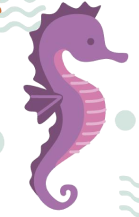
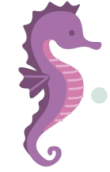
feat: componente de projetos, redes sociais e footer criados

diff --git a/src/components/SocialMedia/index.js b/src/components/SocialMedia/index.js
@@ -1,0 +1,38 @@
+import React from 'react';
+import { Container, List, ContainerList } from './styles';
+import imgWaves from '../../assets/waves.png';
+import imgOyster from '../../assets/oyster.png';
+import imgMedium from '../../assets/medium.png';
+import imgLinkedin from '../../assets/linkedin.png';
+import imgGitHub from '../../assets/github.png';
+import { SubTitle, Title } from '../About/styles';
+
+function SocialMedia() {
+    return (
+        <Container>
+            <Title>
+                <img className="oyster" src={imgOyster} alt="ostra" />
+                <SubTitle>
+                    <h2>Redes sociais</h2>
+                    <img src={imgWaves} alt="ondas" />
+                </SubTitle>
+            </Title>
+            <ContainerList>
+                <List>
+                    <img src={imgLinkedin} alt="linkedin" />
+                    <a href="https://www.linkedin.com/in/marina-santa-ana/">marina-santa-ana</a>
+                </List>
+                <List>
+                    <img src={imgGitHub} alt="git hub" />
+                    <a href="https://github.com/marina-santana">marina-santana</a>
+                </List>
+                <List>
+                    <img src={imgMedium} alt="medium" />
+                    <a href="https://medium.com/@marina_santana">@marina_santana</a>
+                </List>
+            </ContainerList>
+        </Container>
+    );
+}
+
+export default SocialMedia;

diff --git a/src/components/Projects/index.js b/src/components/Projects/index.js
@@ -1,0 +1,36 @@
+import React from 'react';
+import { Container, List, ContainerList } from './styles';
+import imgWaves from '../../assets/waves.png';
+import imgSeaweed from '../../assets/seaweed.png';
+import imgFrame from '../../assets/frame.png';
+import { SubTitle, Title } from '../About/styles';
+
+function Projects() {
+    return (
+        <Container>
+            <Title>
+                <img className="seaweed" src={imgSeaweed} alt="alga" />
+                <SubTitle>
+                    <h2>Projetos</h2>
+                    <img src={imgWaves} alt="ondas" />
+                </SubTitle>
+            </Title>
+            <ContainerList>
+                <List>
+                    <img src={imgFrame} alt="quadro" />
+                    <a href="https://github.com/marina-santana/modal-reactjs">modal-react</a>
+                </List>
+                <List>
+                    <img src={imgFrame} alt="quadro" />
+                    <a href="https://github.com/marina-santana/crud-react-js">crud-react</a>
+                </List>
+                <List>
+                    <img src={imgFrame} alt="quadro" />
+                    <a href="https://github.com/marina-santana/farm-sounds">farm-sounds</a>
+                </List>
+            </ContainerList>
+        </Container>
+    );
+}
+
+export default Projects;

diff --git a/src/components/SocialMedia/styles.js b/src/components/SocialMedia/styles.js
@@ -1,7 +1,7 @@
 import styled from 'styled-components';
 
 export const Container = styled.div`
-  margin-top: 64px;
+  margin: 64px 0 128px;
   display: flex;
   align-items: center;
   flex-direction: column;
@@ -12,27 +12,30 @@ export const Container = styled.div`
     margin-top: 8px;
   }
 
-  .fish {
-    width: 128px;
-    height: 99px;
+  .oyster {
+    width: 134px;
+    height: 106px;
   }
 `;
 
 export const ContainerList = styled.div`
   display: flex;
+  width: 500px;
   justify-content: space-between;
   margin-top: 16px;
 `;
 
 export const List = styled.div`
   display: flex;
-  flex-direction: column;
-  padding: 0 64px;
   align-items: center;
-  justify-content: center;
+  flex-direction: column;
+  
+  a{
+    position: absolute;
+    margin-top: 140px;
+    text-transform: uppercase;
+  }
 `;
-
-
 
 
 

diff --git a/src/pages/Home.js b/src/pages/Home.js
@@ -1,8 +1,11 @@
 import React from 'react';
 import About from '../components/About';
+import Footer from '../components/Footer';
 import Formation from '../components/Formation';
 import Header from '../components/Header';
+import Projects from '../components/Projects';
 import Skills from '../components/Skills';
+import SocialMedia from '../components/SocialMedia';
 import { Container } from './styles';
 
 function Home() {
@@ -12,6 +15,9 @@ function Home() {
             <About />
             <Formation />
             <Skills />
+            <Projects />
+            <SocialMedia />
+            <Footer />
         </Container>
     );
 }

diff --git a/src/components/Projects/styles.js b/src/components/Projects/styles.js
@@ -12,27 +12,30 @@ export const Container = styled.div`
     margin-top: 8px;
   }
 
-  .fish {
-    width: 128px;
-    height: 99px;
+  .seaweed {
+    width: 100px;
+    height: 120px;
   }
 `;
 
 export const ContainerList = styled.div`
   display: flex;
+  width: 850px;
   justify-content: space-between;
   margin-top: 16px;
 `;
 
 export const List = styled.div`
   display: flex;
-  flex-direction: column;
-  padding: 0 64px;
   align-items: center;
-  justify-content: center;
+  flex-direction: column;
+  
+  a{
+    position: absolute;
+    margin-top: 140px;
+    text-transform: uppercase;
+  }
 `;
-
-
 
 
 

diff --git a/src/components/About/styles.js b/src/components/About/styles.js
@@ -7,8 +7,8 @@ export const Container = styled.div`
   flex-direction: column;
 
   .seahorse {
-    width: 100px;
-    height: 150px;
+    width: 80px;
+    height: 138px;
   }
 
   p{
@@ -16,16 +16,10 @@ export const Container = styled.div`
     text-align: center;
     margin-top: 16px;
   }
-
-
 `;
-
-
 
 export const Title = styled.div`
  display: flex;
-  
-  
 `;
 
 export const SubTitle = styled.div`
@@ -34,8 +28,6 @@ export const SubTitle = styled.div`
     font-size: 3em;
     text-align: center;
   }
-  
-  
 `;
 
 

diff --git a/src/components/Footer/styles.js b/src/components/Footer/styles.js
@@ -1,0 +1,28 @@
+import styled from 'styled-components';
+import imgFooter from '../../assets/footer.png';
+
+export const Container = styled.div`
+  background-image: url(${imgFooter});;
+  background-size: 100%;
+  margin-top: -5px;
+  width: 100vw;
+  height: 350px;
+  display: flex;
+  flex-direction: column;
+  background-repeat: no-repeat;
+  align-items: center;
+
+  h1{
+    font-weight: 600;
+    font-size: 3em;
+    color: #AD9EFA;
+    margin-top: 500px;
+  }
+
+  img + img {
+    margin-top: 8px;
+  }
+`;
+
+
+

diff --git a/src/components/Formation/styles.js b/src/components/Formation/styles.js
@@ -7,7 +7,7 @@ export const Container = styled.div`
   flex-direction: column;
 
   .starfish {
-    width: 100px;
+    width: 133px;
     height: 100px;
   }
 
@@ -20,8 +20,6 @@ export const Container = styled.div`
   .circle-markle{
     margin-top: 32px;
   }
-
-
 `;
 
 

diff --git a/src/components/About/index.js b/src/components/About/index.js
@@ -15,7 +15,6 @@ function About() {
             </Title>
             <p>Olá, eu sou a Marina, Desenvolvedora Full Stack ,  gosto de filmes e de viajar com meus amigos.</p>
         </Container>
-
     );
 }
 

diff --git a/src/components/Formation/index.js b/src/components/Formation/index.js
@@ -25,7 +25,6 @@ function Formation() {
             <p>Universidade nove de julho</p>
             <p>Ciências da computação (conclusão prevista para dez/2023)</p>
         </Container>
-
     );
 }
 

diff --git a/src/components/Footer/index.js b/src/components/Footer/index.js
@@ -1,0 +1,10 @@
+import React from 'react';
+import { Container } from './styles';
+
+function Footer() {
+    return (
+        <Container />
+    );
+}
+
+export default Footer;

diff --git a/src/App.js b/src/App.js
@@ -1,5 +1,4 @@
 import React from "react";
-import Header from "./components/Header/index.js";
 import Home from "./pages/Home";
 import GlobalStyle from './theme/globalStyle';
 
